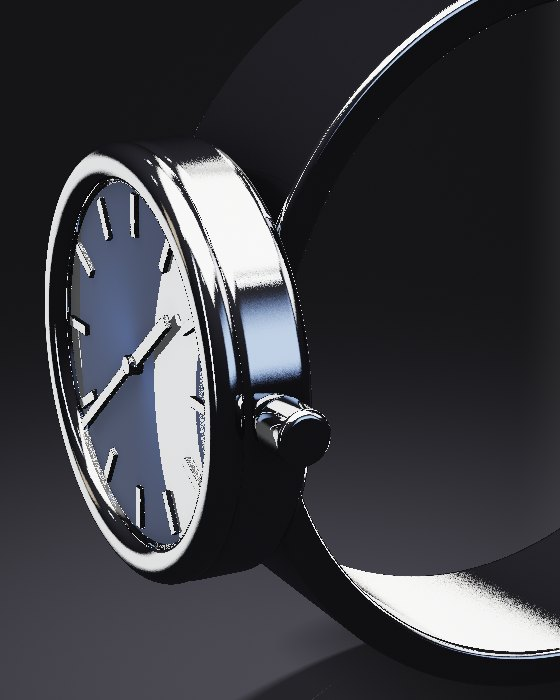
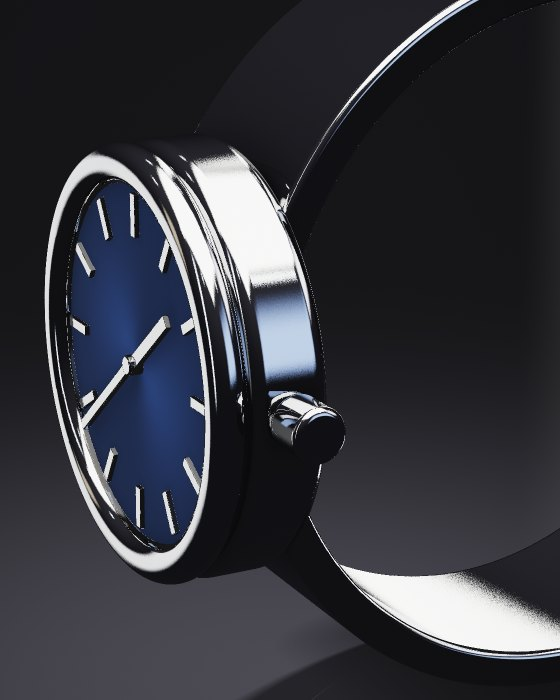
Fix watch dial and oval medallion renders
The watch case front sat at the dial's depth and showed through as a
pale crescent; the case now sits behind the dial. The plain oval
medallion now renders its metal disc.

Claude-Session: https://claude.ai/code/session_014pGm6awtT7DhtHLKsEF2rw

diff --git a/marketplace-joyas/index.html b/marketplace-joyas/index.html
@@ -846,9 +846,9 @@ vec2 map(vec3 p){
     float strap=length(max(abs(vec2(sr, s.x))-vec2(0.03,0.30),0.))-0.02;
     
     res=vec2(strap, (uMetal.r<0.7&&uMetal.g<0.7) ? 1. : 6.);
-    float cse=sdCylZ(q-vec3(0.,0.,0.10), 0.58, 0.11, 0.05);
+    float cse=sdCylZ(q-vec3(0.,0.,0.06), 0.58, 0.11, 0.05);
     vec3 lq=vec3(abs(q.x)-0.22, abs(q.y)-0.58, q.z-0.05); float lug=sdBox(lq, vec3(0.05,0.12,0.06))-0.02;
-    float crown=sdCylZ((q-vec3(0.66,0.,0.10)).zyx, 0.07, 0.07, 0.02);
+    float crown=sdCylZ((q-vec3(0.66,0.,0.06)).zyx, 0.07, 0.07, 0.02);
     float bez=sdTorus((q-vec3(0.,0.,0.215)).xzy, vec2(0.53,0.05));
     res=U(res, vec2(smin(cse,crown,0.01),1.));
     res=U(res, vec2(bez,1.));
